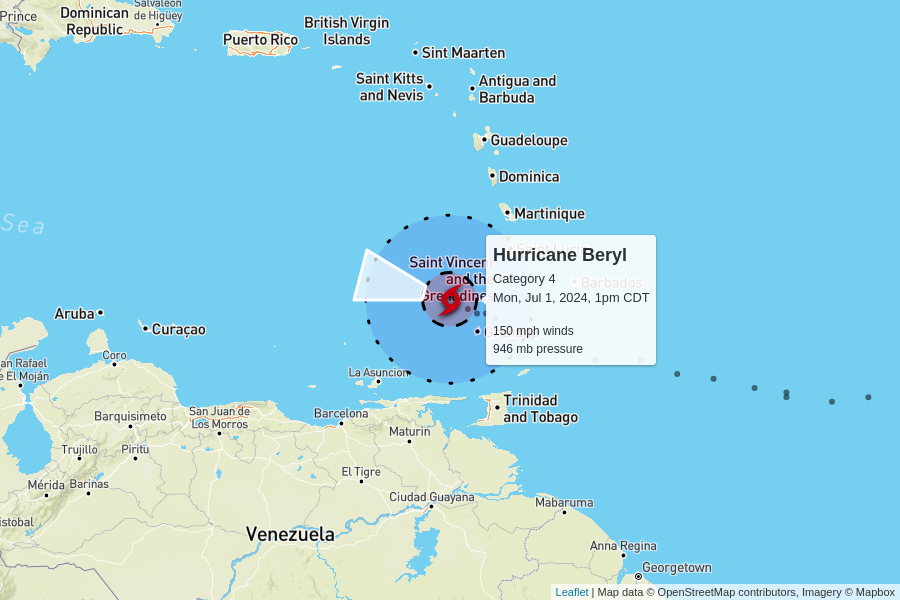
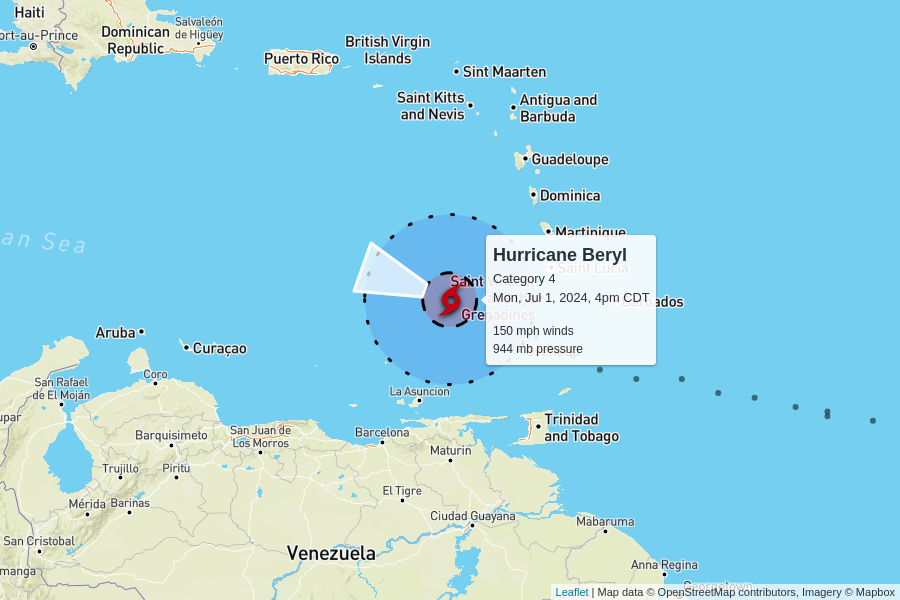
automatic update

diff --git a/docs/index.html b/docs/index.html
@@ -102,7 +102,7 @@
         <td colspan="6" class="storm category-4" >
           <h2>
             Hurricane Beryl - Category 4
-            <p class="updated">last updated <span data-time>2024-07-01T18:00:00.000Z</span></p>
+            <p class="updated">last updated <span data-time>2024-07-01T21:00:00.000Z</span></p>
           </h2>
         </td>
       </tr>
@@ -118,11 +118,11 @@
       <tr>
         <td class="spacer"></td>
         <td>150 mph<br>0 mph since last update</td>
-        <td>946 mb<br>0 mb since last update</td>
+        <td>944 mb<br>-2 mb since last update</td>
         <td>
-          20 mph to the west-northwest
+          21 mph to the west-northwest
           <br/>
-          <span style="display: inline-block; font-size: 1.5em; transform: rotate(285deg);">↑</span>
+          <span style="display: inline-block; font-size: 1.5em; transform: rotate(290deg);">↑</span>
         </td>
         <td><a href="https://raw.githubusercontent.com/mgwalker/atlantic-hurricanes/main/data/csv/AL022024.csv">AL022024.csv</a></td>
         <td><a href="https://www.nhc.noaa.gov/archive/2024/BERYL.shtml?">NHC advisories</a></td>
